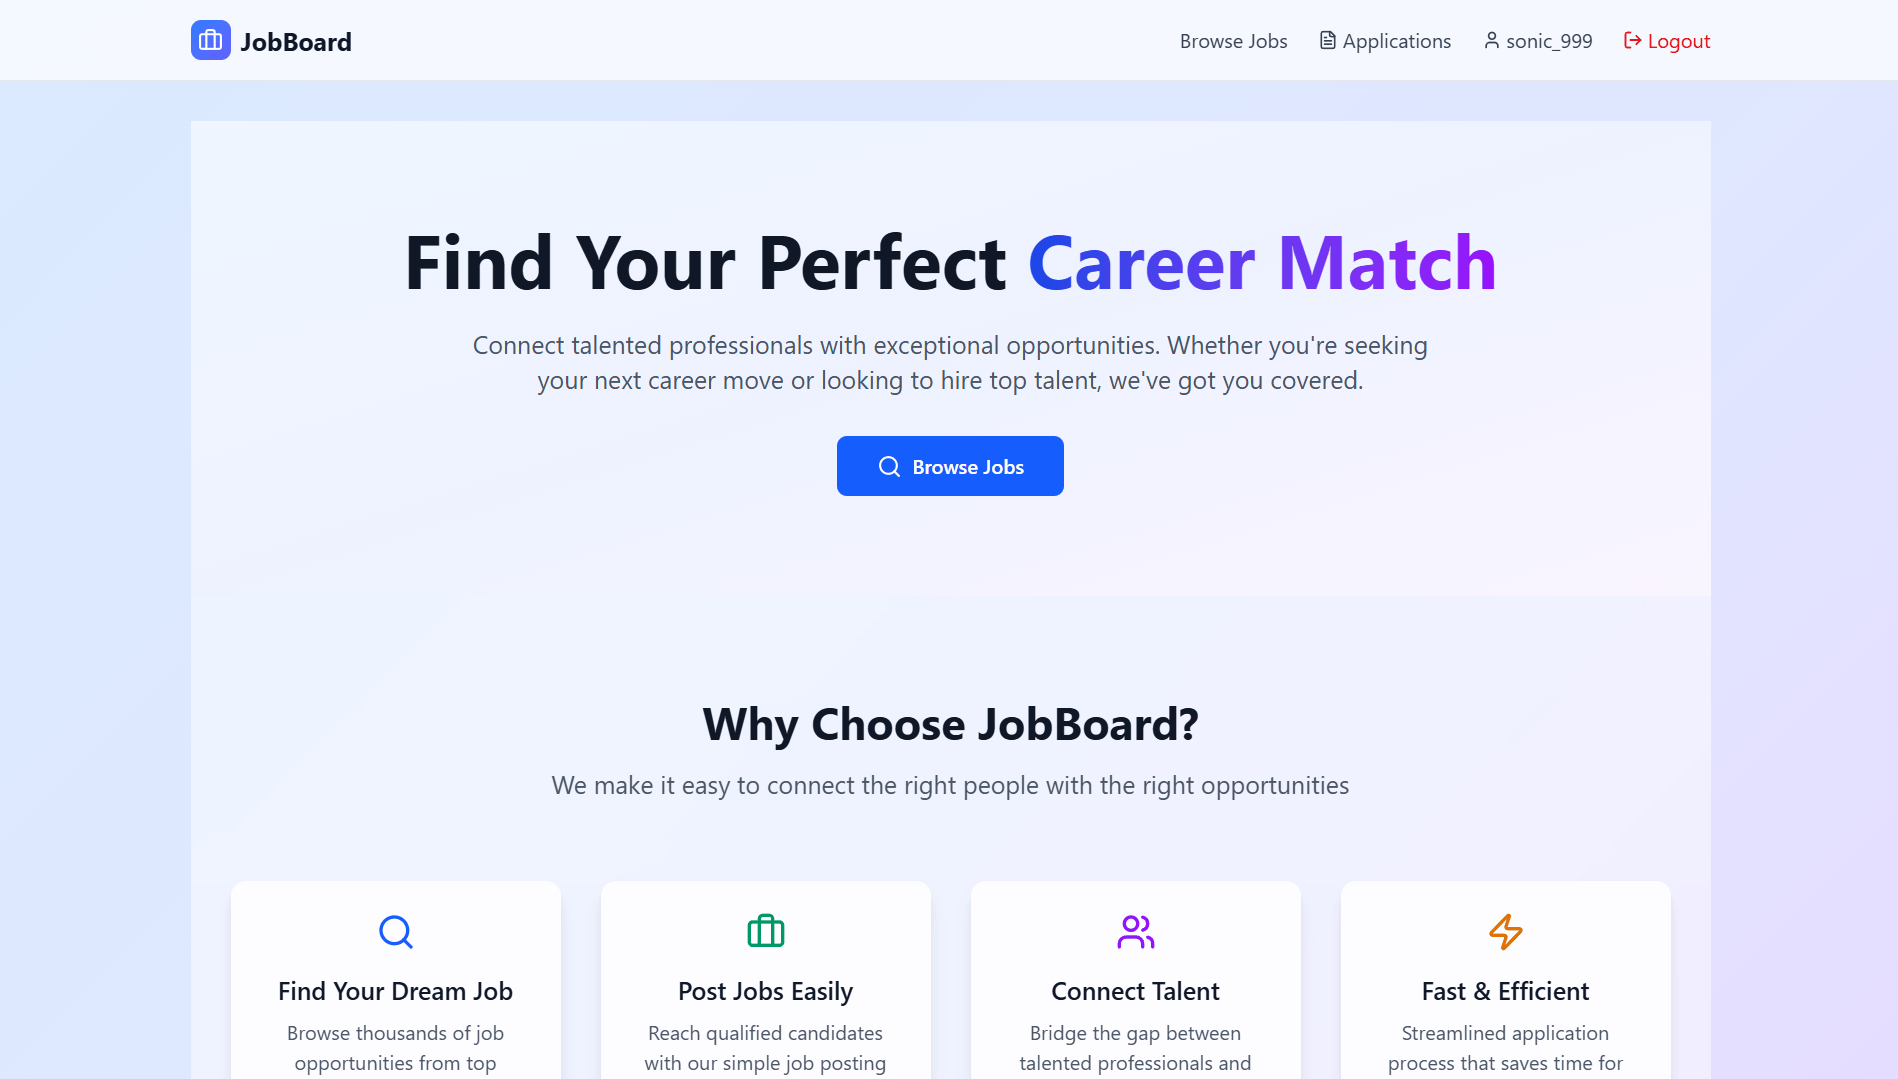
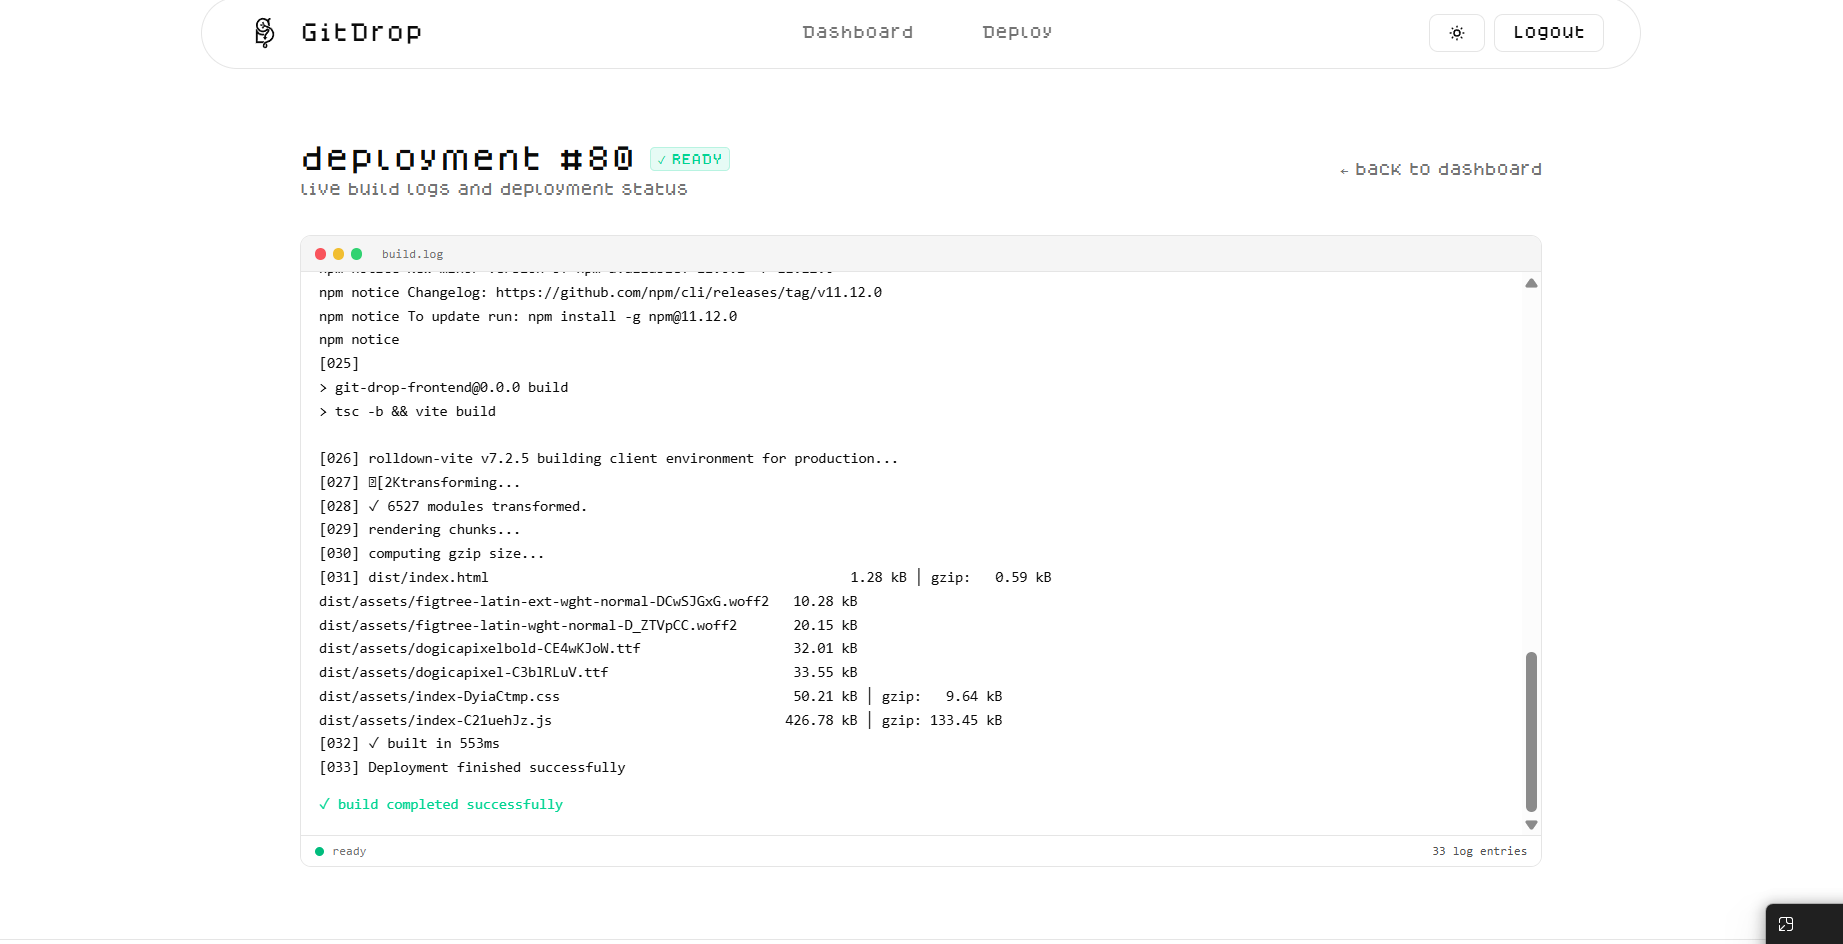
updated projects

diff --git a/components/ProjectsSection.tsx b/components/ProjectsSection.tsx
@@ -24,7 +24,7 @@ interface ProjectType {
 const ProjectsSection = () => {
     const [opened, setOpened] = useState<string>("");
     const [openedProject, setOpenedProject] = useState<ProjectType | null>(
-        null
+        null,
     );
     const popupRef = useRef<HTMLDivElement>(null);
 
@@ -83,8 +83,36 @@ const ProjectsSection = () => {
                 code: "https://github.com/rehan6025/draw-app",
             },
         },
+
         {
             id: "project-2",
+            title: "GitDrop",
+
+            shortDesc:
+                "A deployment automation platform that builds and deploys GitHub repositories through Docker-based sandboxes, background job queues, and asynchronous worker pipelines.",
+
+            fullDesc:
+                "GitDrop is a deployment automation platform that allows users to authenticate with GitHub, select repositories, and trigger deployments through an asynchronous build pipeline. Deployment requests are queued using BullMQ, processed by dedicated workers, executed inside isolated Docker environments, and tracked through PostgreSQL. The system was designed to explore backend architecture concepts such as job queues, deployment orchestration, authentication, and build isolation.",
+
+            techs: [
+                "TypeScript",
+                "NestJS",
+                "PostgreSQL",
+                "Prisma",
+                "BullMQ",
+                "Redis",
+                "Docker",
+                "GitHub OAuth",
+            ],
+            image: "/p4.png",
+            date: "May 2026",
+            links: {
+                live: "",
+                code: "https://github.com/rehan6025/GitDrop",
+            },
+        },
+        {
+            id: "project-3",
             title: "Syncify – Playlist Transfer App",
             shortDesc:
                 "Transfer Spotify playlists to YouTube effortlessly with just a few clicks using fuzzy matching algorithms.",
@@ -99,7 +127,7 @@ const ProjectsSection = () => {
             },
         },
         {
-            id: "project-3",
+            id: "project-4",
             title: "URL Shortner",
             shortDesc:
                 "A secure URL shortener with custom links, authentication, and persistent storage",
@@ -111,28 +139,6 @@ const ProjectsSection = () => {
             links: {
                 live: "https://rurll.vercel.app/",
                 code: "https://github.com/rehan6025/URL-SHORTNER",
-            },
-        },
-        {
-            id: "project-4",
-            title: "JobBoard – Job Posting & Application Portal",
-            shortDesc:
-                "A full-stack job portal where employers can post jobs, manage applications, and candidates can apply and track their status.",
-            fullDesc:
-                "JobBoard is a modern job management platform that connects employers and job seekers. Employers can create job postings, review applications, change statuses, and view applicant resumes directly via provided links. Job seekers can browse openings, apply, and track the status of their submissions in real time.",
-            techs: [
-                "TypeScript",
-                "React.js",
-                "Redux",
-                "TailwindCSS",
-                "Express.js",
-                "MongoDB",
-            ],
-            image: "/p4.png",
-            date: "September 2025",
-            links: {
-                live: "",
-                code: "https://github.com/rehan6025/Job-board-app",
             },
         },
     ];
@@ -270,7 +276,7 @@ const ProjectsSection = () => {
                                                     >
                                                         {tech}
                                                     </span>
-                                                )
+                                                ),
                                             )}
                                         </div>
                                     </div>